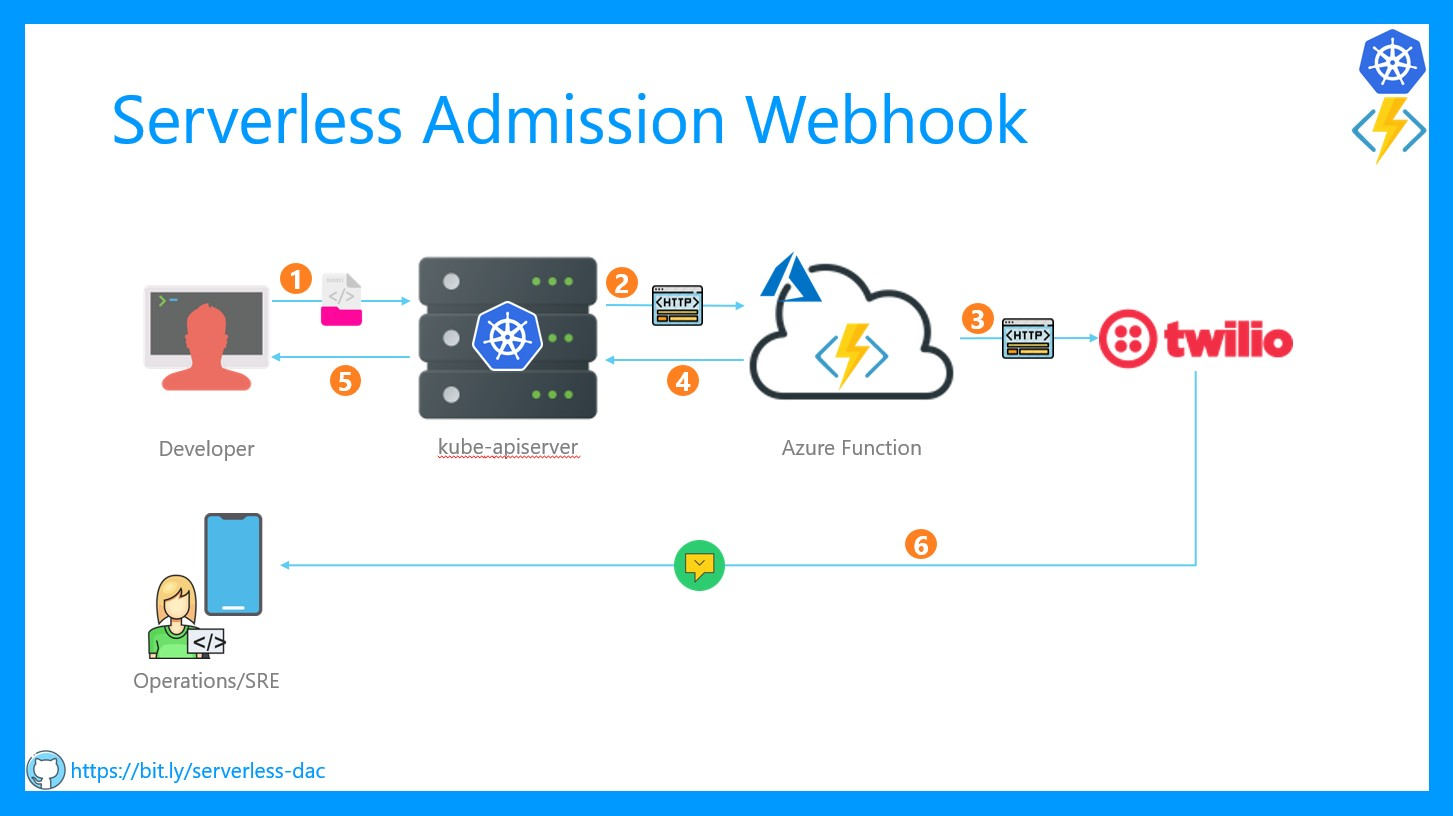
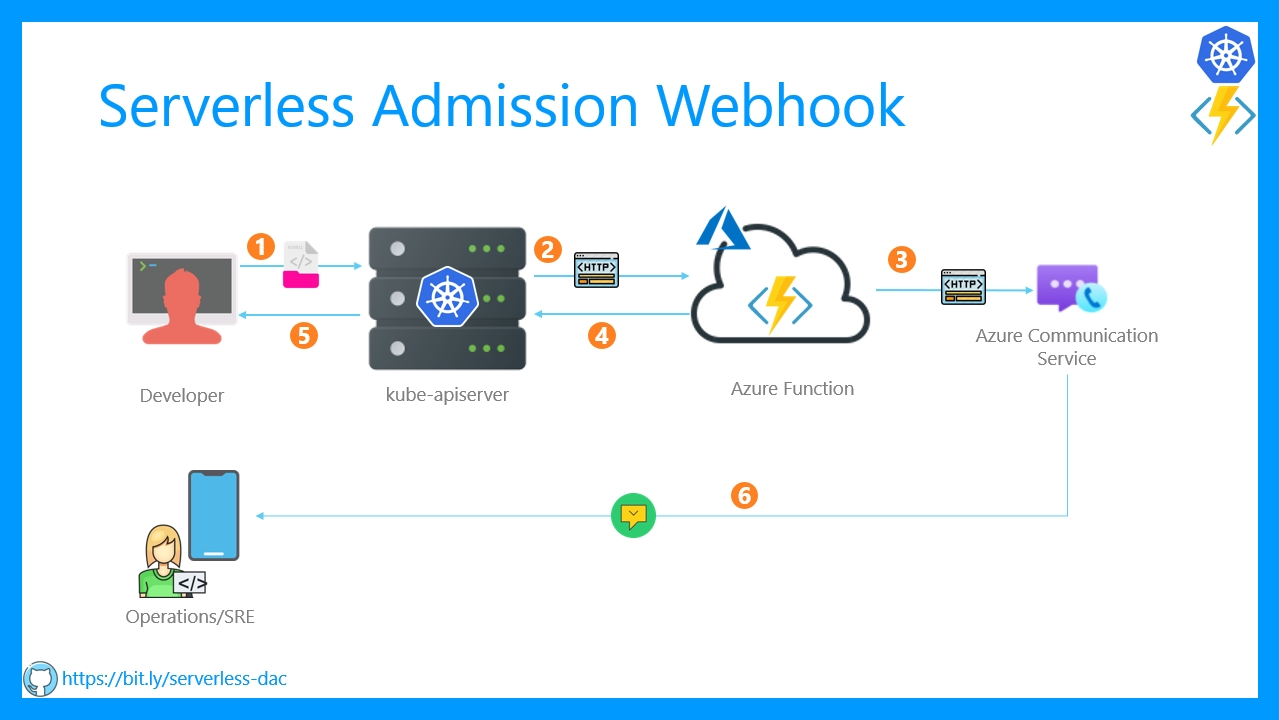
replaced architecture diagram

diff --git a/ReadMe.md b/ReadMe.md
@@ -8,6 +8,6 @@ The Function also uses sends a text message to notify SRE or Operations team on 
 
 ![High level design diagram](architecture.jpg)
 
-## Watch the video
+## Watch the video (Azure Conference India)
 
-To learn more about this application watch the video here: https://www.youtube.com/watch?v=ULtC9cSrY9s
+To learn more about this application watch the video here:
